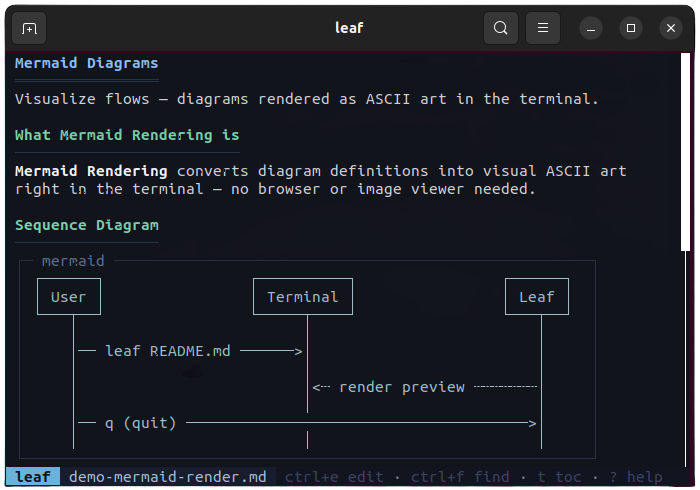
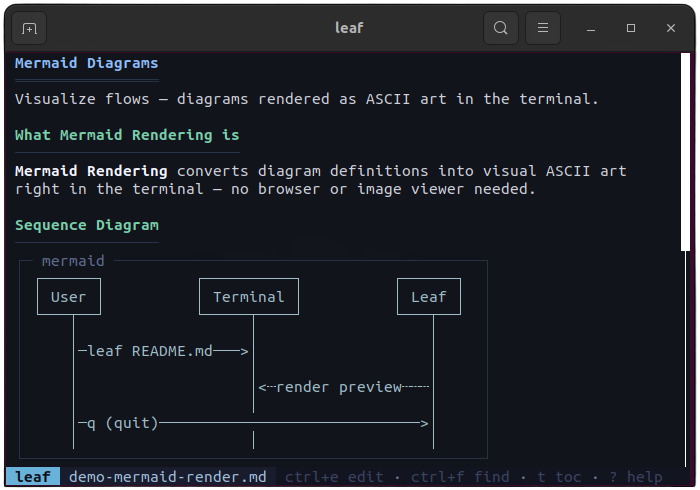
chore: update mmdflux version

diff --git a/demo/sources/demo-mermaid-render.md b/demo/sources/demo-mermaid-render.md
@@ -12,7 +12,7 @@ sequenceDiagram
     participant U as User
     participant T as Terminal
     participant L as Leaf
-    U->>T: ─ leaf README.md ─
-    L-->>T: ┄ render preview ┄
-    U->>L: ─ q (quit) ─
+    U->>T: leaf README.md
+    L-->>T: render preview
+    U->>L: q (quit)
 ```
